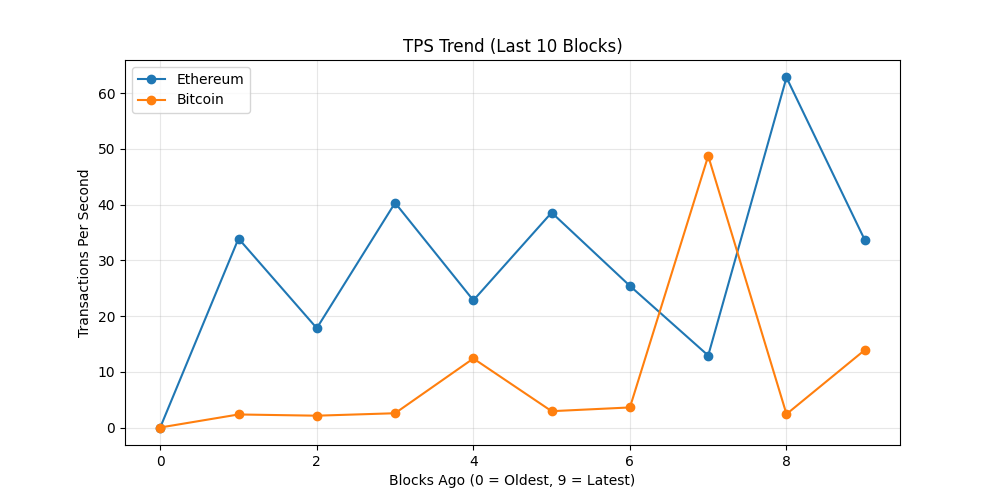
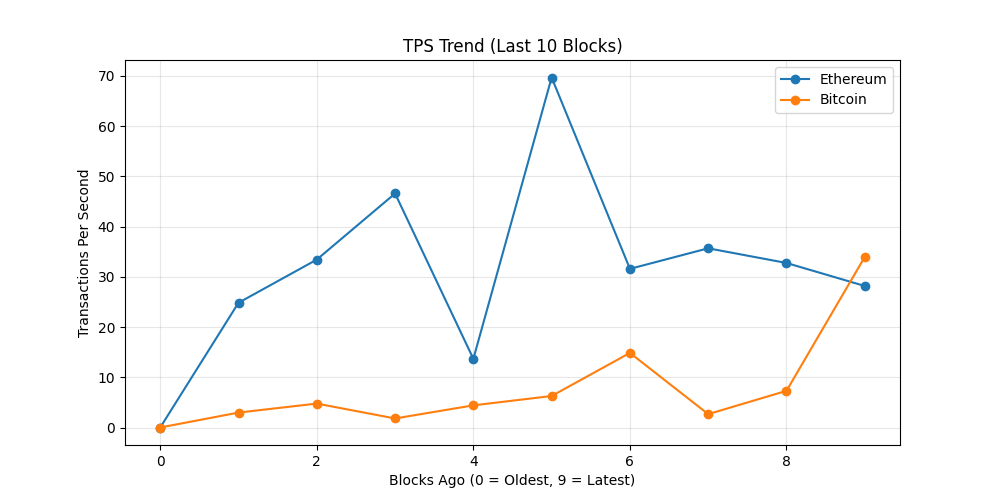
chore: update on-chain dashboard

diff --git a/README.md b/README.md
@@ -19,7 +19,7 @@ The README itself acts as the dashboard and is regenerated automatically on a 6 
 demonstrating a production-style, infrastructure-focused observability workflow rather
 than a traditional UI-driven approach.
 
-_Last updated: 2026-01-15 06:51 UTC_
+_Last updated: 2026-01-15 13:08 UTC_
 
 ## API Usage (GetBlock.io)
 - Calls used: **24**
@@ -27,8 +27,8 @@ _Last updated: 2026-01-15 06:51 UTC_
 ## Network Metrics
 | Chain | Block Height | TX Count | TPS (10 blk avg) | Block Util | Avg Fee |
 |------|-------------|----------|------------------|------------|---------|
-| Ethereum | 24238432 | 404 | 33.67 | 41.6% | 0.1 Gwei |
-| Bitcoin | 932349 | 4311 | 13.91 | 99.8% | N/A |
+| Ethereum | 24240307 | 338 | 28.17 | 44.94% | 0.2 Gwei |
+| Bitcoin | 932377 | 2241 | 33.95 | 99.8% | N/A |
 
 ## Visuals
 ### Transactions Trend
@@ -43,8 +43,8 @@ _Last updated: 2026-01-15 06:51 UTC_
 ## Whale Alerts (latest block)
 - Transaction hashes are truncated for readability.
 - Full hashes are available in `dashboards/metrics.json`
-- Bitcoin | 119.08 BTC | `d27b641c7a3f…`
-- Bitcoin | 100.0 BTC | `45e9f545f787…`
+- Bitcoin | 617.02 BTC | `7e75759beb76…`
+- Bitcoin | 157.42 BTC | `ded7dc2eb869…`
 
 ## Run locally
 
